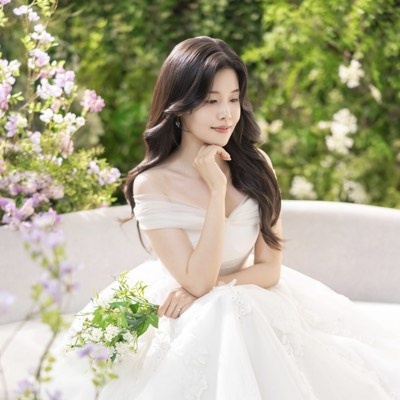
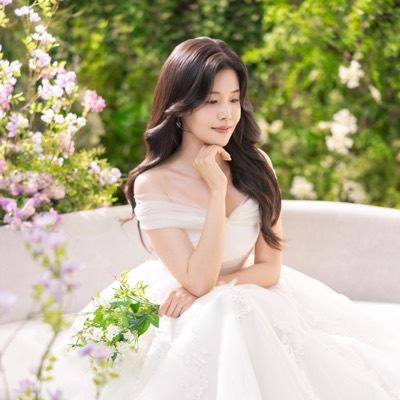
19번 사진(가든 신부)을 새 보정본으로 교체
같은 가든 소파 신부 컷의 더 깨끗한 보정본입니다. 1030x1544 (0.6671) ->
900x1350 으로 잘라 나머지와 같은 2:3 (0.66667) 에 맞췄습니다.

원본이 2:3 보다 아주 살짝 넓어 가로 2px 만 얼굴 기준으로 잘렸습니다.
FACE 값은 같은 장면이라 기존과 동일해 그대로 뒀습니다.

파일명이 그대로라 캐시 버전을 ?v=10 -> ?v=11 로 올렸습니다.

확인: 22장 비율 전부 0.66667(+가로 1장), 썸네일<->원본 22쌍 픽셀 대조
전부 일치, 캐시 없는 프로필에서 로드 실패 0건 / 버전 누락 0건,
19번 탭 -> g19.jpg "19 / 22" (900x1350).

Assisted-by: Claude Code (Opus 5)

diff --git a/index.html b/index.html
@@ -10,7 +10,7 @@
 <meta property="og:title" content="이수영 ♥ 이정은 결혼합니다">
 <meta property="og:description" content="2026년 12월 12일 토요일 오후 4시, 세인트메리엘 1층 메리엘홀">
 <meta property="og:url" content="https://suyoung-lee.github.io/wedding/">
-<meta property="og:image" content="https://suyoung-lee.github.io/wedding/assets/og.jpg?v=10">
+<meta property="og:image" content="https://suyoung-lee.github.io/wedding/assets/og.jpg?v=11">
 <meta name="description" content="2026년 12월 12일 토요일 오후 4시, 세인트메리엘 1층 메리엘홀">
 <meta name="theme-color" content="#fbfaf7">
 
@@ -283,7 +283,7 @@
   <!-- ══════════ 표지 ══════════ -->
   <header class="cover">
     <div class="photo noSave">
-      <img src="assets/cover.jpg?v=10" alt="신랑 이수영, 신부 이정은" draggable="false">
+      <img src="assets/cover.jpg?v=11" alt="신랑 이수영, 신부 이정은" draggable="false">
     </div>
     <div class="fade"></div>
     <div class="frame"></div>
@@ -354,28 +354,28 @@
   <section>
     <p class="label">Gallery</p>
     <div class="grid collapsed noSave" id="grid">
-      <button class="ph wide" type="button" data-full="assets/g01.jpg?v=10" aria-label="웨딩 사진 1번, 크게 보기"><img src="assets/wide.jpg?v=10" alt="" loading="lazy"></button>
-      <button class="ph" type="button" data-full="assets/g02.jpg?v=10" aria-label="웨딩 사진 2번, 크게 보기"><img src="assets/t02.jpg?v=10" alt="" loading="lazy"></button>
-      <button class="ph" type="button" data-full="assets/g03.jpg?v=10" aria-label="웨딩 사진 3번, 크게 보기"><img src="assets/t03.jpg?v=10" alt="" loading="lazy"></button>
-      <button class="ph" type="button" data-full="assets/g04.jpg?v=10" aria-label="웨딩 사진 4번, 크게 보기"><img src="assets/t04.jpg?v=10" alt="" loading="lazy"></button>
-      <button class="ph" type="button" data-full="assets/g05.jpg?v=10" aria-label="웨딩 사진 5번, 크게 보기"><img src="assets/t05.jpg?v=10" alt="" loading="lazy"></button>
-      <button class="ph" type="button" data-full="assets/g06.jpg?v=10" aria-label="웨딩 사진 6번, 크게 보기"><img src="assets/t06.jpg?v=10" alt="" loading="lazy"></button>
-      <button class="ph" type="button" data-full="assets/g07.jpg?v=10" aria-label="웨딩 사진 7번, 크게 보기"><img src="assets/t07.jpg?v=10" alt="" loading="lazy"></button>
-      <button class="ph" type="button" data-full="assets/g08.jpg?v=10" aria-label="웨딩 사진 8번, 크게 보기"><img src="assets/t08.jpg?v=10" alt="" loading="lazy"></button>
-      <button class="ph" type="button" data-full="assets/g09.jpg?v=10" aria-label="웨딩 사진 9번, 크게 보기"><img src="assets/t09.jpg?v=10" alt="" loading="lazy"></button>
-      <button class="ph" type="button" data-full="assets/g10.jpg?v=10" aria-label="웨딩 사진 10번, 크게 보기"><img src="assets/t10.jpg?v=10" alt="" loading="lazy"></button>
-      <button class="ph" type="button" data-full="assets/g11.jpg?v=10" aria-label="웨딩 사진 11번, 크게 보기"><img src="assets/t11.jpg?v=10" alt="" loading="lazy"></button>
-      <button class="ph" type="button" data-full="assets/g12.jpg?v=10" aria-label="웨딩 사진 12번, 크게 보기"><img src="assets/t12.jpg?v=10" alt="" loading="lazy"></button>
-      <button class="ph" type="button" data-full="assets/g13.jpg?v=10" aria-label="웨딩 사진 13번, 크게 보기"><img src="assets/t13.jpg?v=10" alt="" loading="lazy"></button>
-      <button class="ph" type="button" data-full="assets/g14.jpg?v=10" aria-label="웨딩 사진 14번, 크게 보기"><img src="assets/t14.jpg?v=10" alt="" loading="lazy"></button>
-      <button class="ph" type="button" data-full="assets/g15.jpg?v=10" aria-label="웨딩 사진 15번, 크게 보기"><img src="assets/t15.jpg?v=10" alt="" loading="lazy"></button>
-      <button class="ph" type="button" data-full="assets/g16.jpg?v=10" aria-label="웨딩 사진 16번, 크게 보기"><img src="assets/t16.jpg?v=10" alt="" loading="lazy"></button>
-      <button class="ph" type="button" data-full="assets/g17.jpg?v=10" aria-label="웨딩 사진 17번, 크게 보기"><img src="assets/t17.jpg?v=10" alt="" loading="lazy"></button>
-      <button class="ph" type="button" data-full="assets/g18.jpg?v=10" aria-label="웨딩 사진 18번, 크게 보기"><img src="assets/t18.jpg?v=10" alt="" loading="lazy"></button>
-      <button class="ph" type="button" data-full="assets/g19.jpg?v=10" aria-label="웨딩 사진 19번, 크게 보기"><img src="assets/t19.jpg?v=10" alt="" loading="lazy"></button>
-      <button class="ph" type="button" data-full="assets/g20.jpg?v=10" aria-label="웨딩 사진 20번, 크게 보기"><img src="assets/t20.jpg?v=10" alt="" loading="lazy"></button>
-      <button class="ph" type="button" data-full="assets/g21.jpg?v=10" aria-label="웨딩 사진 21번, 크게 보기"><img src="assets/t21.jpg?v=10" alt="" loading="lazy"></button>
-      <button class="ph" type="button" data-full="assets/g22.jpg?v=10" aria-label="웨딩 사진 22번, 크게 보기"><img src="assets/t22.jpg?v=10" alt="" loading="lazy"></button>
+      <button class="ph wide" type="button" data-full="assets/g01.jpg?v=11" aria-label="웨딩 사진 1번, 크게 보기"><img src="assets/wide.jpg?v=11" alt="" loading="lazy"></button>
+      <button class="ph" type="button" data-full="assets/g02.jpg?v=11" aria-label="웨딩 사진 2번, 크게 보기"><img src="assets/t02.jpg?v=11" alt="" loading="lazy"></button>
+      <button class="ph" type="button" data-full="assets/g03.jpg?v=11" aria-label="웨딩 사진 3번, 크게 보기"><img src="assets/t03.jpg?v=11" alt="" loading="lazy"></button>
+      <button class="ph" type="button" data-full="assets/g04.jpg?v=11" aria-label="웨딩 사진 4번, 크게 보기"><img src="assets/t04.jpg?v=11" alt="" loading="lazy"></button>
+      <button class="ph" type="button" data-full="assets/g05.jpg?v=11" aria-label="웨딩 사진 5번, 크게 보기"><img src="assets/t05.jpg?v=11" alt="" loading="lazy"></button>
+      <button class="ph" type="button" data-full="assets/g06.jpg?v=11" aria-label="웨딩 사진 6번, 크게 보기"><img src="assets/t06.jpg?v=11" alt="" loading="lazy"></button>
+      <button class="ph" type="button" data-full="assets/g07.jpg?v=11" aria-label="웨딩 사진 7번, 크게 보기"><img src="assets/t07.jpg?v=11" alt="" loading="lazy"></button>
+      <button class="ph" type="button" data-full="assets/g08.jpg?v=11" aria-label="웨딩 사진 8번, 크게 보기"><img src="assets/t08.jpg?v=11" alt="" loading="lazy"></button>
+      <button class="ph" type="button" data-full="assets/g09.jpg?v=11" aria-label="웨딩 사진 9번, 크게 보기"><img src="assets/t09.jpg?v=11" alt="" loading="lazy"></button>
+      <button class="ph" type="button" data-full="assets/g10.jpg?v=11" aria-label="웨딩 사진 10번, 크게 보기"><img src="assets/t10.jpg?v=11" alt="" loading="lazy"></button>
+      <button class="ph" type="button" data-full="assets/g11.jpg?v=11" aria-label="웨딩 사진 11번, 크게 보기"><img src="assets/t11.jpg?v=11" alt="" loading="lazy"></button>
+      <button class="ph" type="button" data-full="assets/g12.jpg?v=11" aria-label="웨딩 사진 12번, 크게 보기"><img src="assets/t12.jpg?v=11" alt="" loading="lazy"></button>
+      <button class="ph" type="button" data-full="assets/g13.jpg?v=11" aria-label="웨딩 사진 13번, 크게 보기"><img src="assets/t13.jpg?v=11" alt="" loading="lazy"></button>
+      <button class="ph" type="button" data-full="assets/g14.jpg?v=11" aria-label="웨딩 사진 14번, 크게 보기"><img src="assets/t14.jpg?v=11" alt="" loading="lazy"></button>
+      <button class="ph" type="button" data-full="assets/g15.jpg?v=11" aria-label="웨딩 사진 15번, 크게 보기"><img src="assets/t15.jpg?v=11" alt="" loading="lazy"></button>
+      <button class="ph" type="button" data-full="assets/g16.jpg?v=11" aria-label="웨딩 사진 16번, 크게 보기"><img src="assets/t16.jpg?v=11" alt="" loading="lazy"></button>
+      <button class="ph" type="button" data-full="assets/g17.jpg?v=11" aria-label="웨딩 사진 17번, 크게 보기"><img src="assets/t17.jpg?v=11" alt="" loading="lazy"></button>
+      <button class="ph" type="button" data-full="assets/g18.jpg?v=11" aria-label="웨딩 사진 18번, 크게 보기"><img src="assets/t18.jpg?v=11" alt="" loading="lazy"></button>
+      <button class="ph" type="button" data-full="assets/g19.jpg?v=11" aria-label="웨딩 사진 19번, 크게 보기"><img src="assets/t19.jpg?v=11" alt="" loading="lazy"></button>
+      <button class="ph" type="button" data-full="assets/g20.jpg?v=11" aria-label="웨딩 사진 20번, 크게 보기"><img src="assets/t20.jpg?v=11" alt="" loading="lazy"></button>
+      <button class="ph" type="button" data-full="assets/g21.jpg?v=11" aria-label="웨딩 사진 21번, 크게 보기"><img src="assets/t21.jpg?v=11" alt="" loading="lazy"></button>
+      <button class="ph" type="button" data-full="assets/g22.jpg?v=11" aria-label="웨딩 사진 22번, 크게 보기"><img src="assets/t22.jpg?v=11" alt="" loading="lazy"></button>
     </div>
     <button class="more" type="button" id="more">사진 더보기<span class="chev" aria-hidden="true"></span></button>
   </section>
@@ -388,8 +388,8 @@
     <h2>세인트메리엘</h2>
     <p class="sub">1층 메리엘홀</p>
 
-    <a class="mapWrap noSave" href="assets/map-full.png?v=10" target="_blank" rel="noopener">
-      <img src="assets/map.png?v=10" alt="세인트메리엘 약도" loading="lazy" draggable="false">
+    <a class="mapWrap noSave" href="assets/map-full.png?v=11" target="_blank" rel="noopener">
+      <img src="assets/map.png?v=11" alt="세인트메리엘 약도" loading="lazy" draggable="false">
     </a>
     <p class="mapHint">약도를 누르면 크게 볼 수 있습니다</p>
 

diff --git a/build_assets.py b/build_assets.py
@@ -18,8 +18,8 @@ OUT = "assets"
 # index.html 의 이미지 URL 뒤 ?v=N 캐시 버전. 파일명을 그대로 두고 사진 내용만
 # 바꾸면 이미 청첩장을 열어본 브라우저가 캐시된 옛 사진을 계속 보여줍니다
 # (썸네일만 바뀌고 뷰어는 옛 사진이 뜨는 식). 사진을 갈아끼울 때마다 올리세요.
-#   sed -i '' 's/?v=[0-9]*/?v=11/g' index.html
-ASSET_V = 10
+#   sed -i '' 's/?v=[0-9]*/?v=12/g' index.html
+ASSET_V = 11
 os.makedirs(OUT, exist_ok=True)
 
 A = lambda n: os.path.join(SRC, f"KakaoTalk_20260909_203020487{n}.png")
@@ -60,7 +60,7 @@ ORDER = [
     (N("K_그린월두사람"),          "가든 - 잎사귀 배경"),
     (N("G_가든소파신부_정면"),     "가든 - 소파 신부"),
     (N("H_가든소파신부_시선아래"), "가든 - 소파 신부"),
-    (A("_08"), "가든 - 신부"),
+    (N("L_가든소파신부_턱괸"), "가든 - 신부"),
     # 검정 배경 스튜디오 (맨 뒤)
     (A("_16"), "검정 배경 스튜디오 - 신부 정면"),
     (A("_15"), "검정 배경 스튜디오 - 신랑"),
